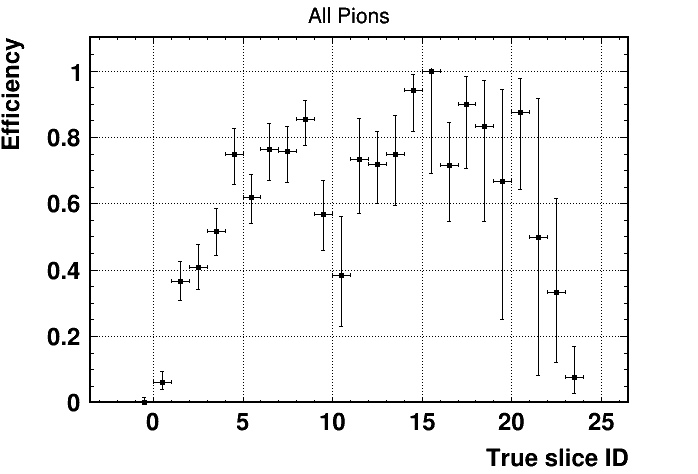
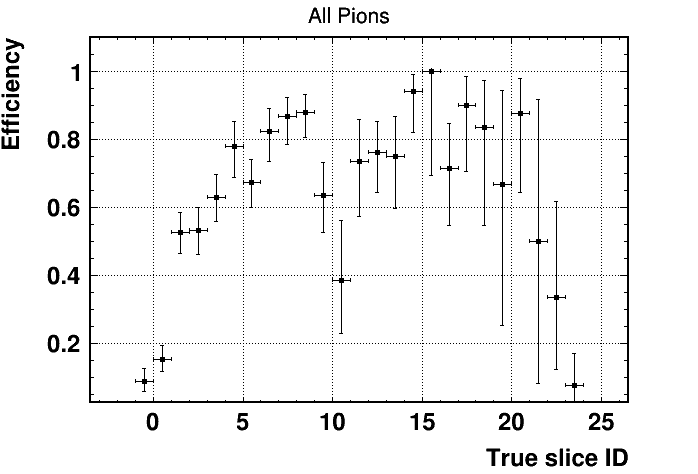
Remove reco_beam_true_byE_matched cut.

diff --git a/macros/makeXS.C b/macros/makeXS.C
@@ -64,6 +64,9 @@
   //hinc->SetLineColor(3);
   //hinc->SetMarkerColor(3);
   hinc->DrawCopy("same");
+//  eff_den_Inc->SetLineColor(2);
+//  eff_den_Inc->SetMarkerColor(2);
+//  eff_den_Inc->Draw("same hist");
   h_truesliceid_pion_all->SetLineColor(2);
   h_truesliceid_pion_all->SetMarkerColor(2);
   h_truesliceid_pion_all->Draw("same hist");
